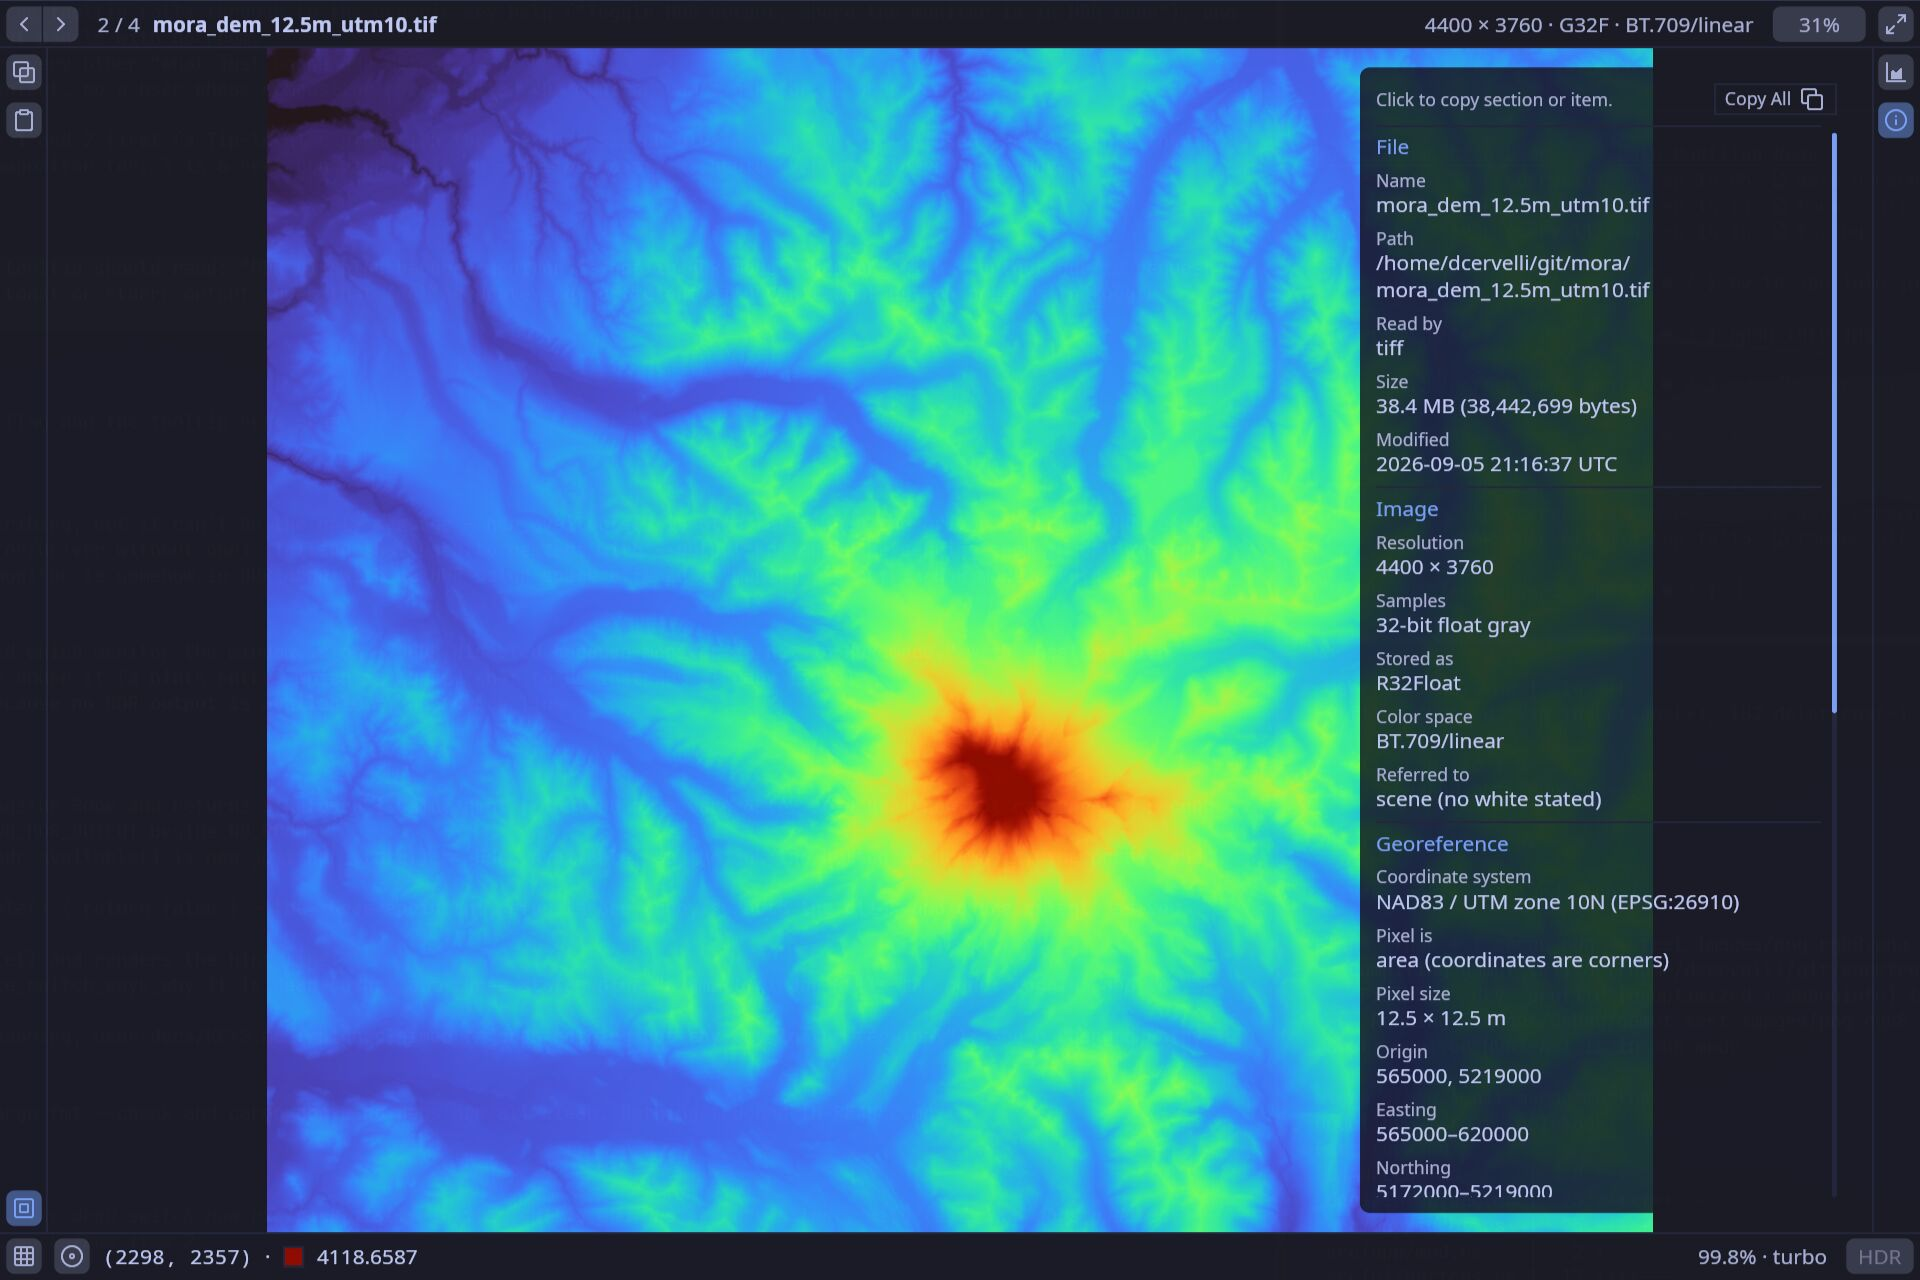
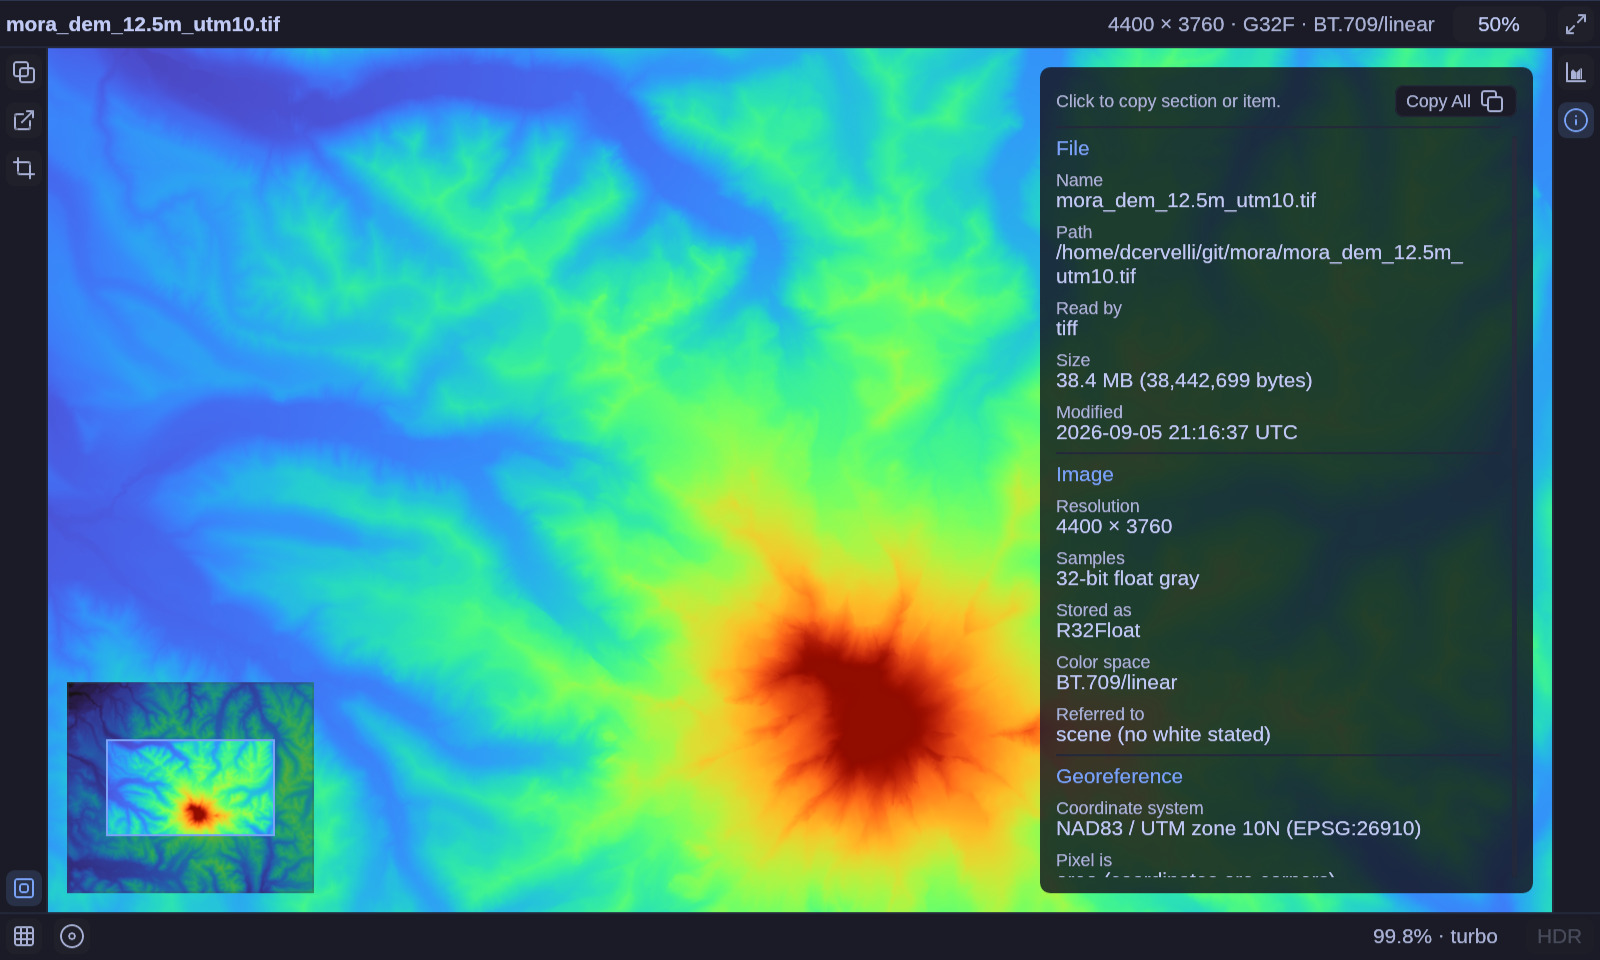
Info screenshot script.

diff --git a/bin/screenshots/device.py b/bin/screenshots/device.py
@@ -1,5 +1,5 @@
 #!/usr/bin/env python3
-"""A mouse that is not there: wheel notches and drags through /dev/uinput.
+"""A mouse and a keyboard that are not there, through /dev/uinput.
 
 wtype has keys but no pointer, and Hyprland can warp the pointer but not press
 its buttons or turn its wheel, so what the wheel and a drag do — zooming about
@@ -9,9 +9,16 @@ sends the events, and takes it away again. Nothing but the standard library:
 the ioctls and the event record are spelled out here from linux/uinput.h and
 linux/input.h.
 
-    mouse.py wheel N          N notches: positive is away from the hand, which zooms in
-    mouse.py drag DX DY       the left button held while the pointer moves DX, DY
-    mouse.py click            the left button pressed and released
+It has keys as well, for the bindings wtype cannot reach. wtype types a
+keysym under a keymap of its own, at whatever keycode it chose for it, and
+a binding on a key's position — Shift+2 for 50%, matched by the key being
+the second digit and not by what it says — never sees the key it wants.
+A key from here is the real keycode, read under the real keymap.
+
+    device.py wheel N          N notches: positive is away from the hand, which zooms in
+    device.py drag DX DY       the left button held while the pointer moves DX, DY
+    device.py click            the left button pressed and released
+    device.py key CHORD        a key by its position, with modifiers: 2, shift+2, ctrl+shift+c
 
 /dev/uinput has to be writable by the user; Omarchy grants that through an
 ACL, and `getfacl /dev/uinput` says whether it has.
@@ -28,6 +35,21 @@ EV_SYN, EV_KEY, EV_REL = 0x00, 0x01, 0x02
 SYN_REPORT = 0
 REL_X, REL_Y, REL_WHEEL, REL_WHEEL_HI_RES = 0x00, 0x01, 0x08, 0x0B
 BTN_LEFT = 0x110
+
+# The keys a chord can name, by their evdev codes.
+KEYS = {
+    "esc": 1, "1": 2, "2": 3, "3": 4, "4": 5, "5": 6, "6": 7, "7": 8, "8": 9,
+    "9": 10, "0": 11, "minus": 12, "equal": 13, "backspace": 14, "tab": 15,
+    "q": 16, "w": 17, "e": 18, "r": 19, "t": 20, "y": 21, "u": 22, "i": 23,
+    "o": 24, "p": 25, "leftbrace": 26, "rightbrace": 27, "enter": 28,
+    "leftctrl": 29, "a": 30, "s": 31, "d": 32, "f": 33, "g": 34, "h": 35,
+    "j": 36, "k": 37, "l": 38, "semicolon": 39, "apostrophe": 40, "grave": 41,
+    "leftshift": 42, "backslash": 43, "z": 44, "x": 45, "c": 46, "v": 47,
+    "b": 48, "n": 49, "m": 50, "comma": 51, "dot": 52, "slash": 53,
+    "rightshift": 54, "leftalt": 56, "space": 57, "up": 103, "pageup": 104,
+    "left": 105, "right": 106, "end": 107, "down": 108, "pagedown": 109,
+}
+MODIFIERS = {"shift": "leftshift", "ctrl": "leftctrl", "alt": "leftalt"}
 
 # linux/uinput.h, with the _IO macros already applied: 'U' is 0x55, and
 # uinput_setup is an input_id (four u16), an 80-byte name and a u32.
@@ -46,11 +68,13 @@ NOTCH = 120
 SETTLE = 0.4
 
 
-class Mouse:
+class Device:
     def __init__(self):
         self.fd = os.open("/dev/uinput", os.O_WRONLY | os.O_NONBLOCK)
         fcntl.ioctl(self.fd, UI_SET_EVBIT, EV_KEY)
         fcntl.ioctl(self.fd, UI_SET_KEYBIT, BTN_LEFT)
+        for code in KEYS.values():
+            fcntl.ioctl(self.fd, UI_SET_KEYBIT, code)
         fcntl.ioctl(self.fd, UI_SET_EVBIT, EV_REL)
         for code in (REL_X, REL_Y, REL_WHEEL, REL_WHEEL_HI_RES):
             fcntl.ioctl(self.fd, UI_SET_RELBIT, code)
@@ -109,23 +133,37 @@ class Mouse:
         time.sleep(0.05)
         self.button(False)
 
+    def key(self, chord):
+        *modifiers, key = chord.lower().split("+")
+        codes = [KEYS[MODIFIERS[m]] for m in modifiers] + [KEYS[key]]
+        for code in codes:
+            self.emit(EV_KEY, code, 1)
+            self.sync()
+            time.sleep(0.02)
+        for code in reversed(codes):
+            self.emit(EV_KEY, code, 0)
+            self.sync()
+            time.sleep(0.02)
+
 
 def main(argv):
     if len(argv) < 2:
         sys.exit(__doc__)
-    mouse = Mouse()
+    device = Device()
     try:
         match argv[1:]:
             case ["wheel", notches]:
-                mouse.wheel(int(notches))
+                device.wheel(int(notches))
             case ["drag", dx, dy]:
-                mouse.drag(int(dx), int(dy))
+                device.drag(int(dx), int(dy))
             case ["click"]:
-                mouse.click()
+                device.click()
+            case ["key", chord]:
+                device.key(chord)
             case _:
                 sys.exit(__doc__)
     finally:
-        mouse.close()
+        device.close()
 
 
 if __name__ == "__main__":

diff --git a/AGENTS.md b/AGENTS.md
@@ -142,7 +142,8 @@ packaging/     what an Arch package is built from: PKGBUILD, the .desktop entry,
 bin/           release, and pkgbuild-sha which points the PKGBUILD at a published tag;
                screenshots/ holds one script per picture in user-docs/screenshots/,
                over lib.sh, which opens, drives and captures a window on Hyprland,
-               and mouse.py, a uinput mouse for the wheel and drags
+               and device.py, a uinput mouse and keyboard for the wheel, drags,
+               and the keys that are bound by position
 REUSE.toml     which file in the tree is under what license; LICENSES/ holds the
                texts it names, and `reuse lint` checks the two agree
 about.toml     which licenses a dependency may arrive under; packaging/about.hbs
@@ -178,7 +179,7 @@ still agrees with both, so renaming either is editing the constant —
 | A popup menu | a function in `ui/menu.rs` that lays its cells out, each pushing `Command::Press` of a typed `Control` — `ZoomTo`, `Format`, `Copies`, or `OpenIn`, which is a place in a list the application built rather than a choice named in the source — and an `egui::Popup` hung off its button in `ui/chrome.rs`, aligned below, above or beside it with `RectAlign`. The popup opens, closes and takes the pointer by itself; `App::close_menus` is how a key closes one. An item that does something rather than setting something is performed in `App::press`, as the menu of copies is, and prints its key beside it from `Naming::shortcut` |
 | What else can open the file on screen, or what happens when one is chosen | `openers.rs`: `MIME_TYPES` says what the desktop calls a file this program reads, `read_entry` which entries are offered and which are left out, and `open` how one is started. The list is read once per file in `App::apply`; the button is `Pass::open_button`, the menu `ui/menu.rs::open_items`, and the press `App::open_in` |
 | A CLI flag | `cli.rs`, and the `Options` / `Startup` / `Overrides` field it sets |
-| A picture in the README or `user-docs/` | a script in `bin/screenshots/` over `lib.sh`: `open` the window, `keys` to drive it, `settle`, `shoot`, `close`; a recording is `record` and `cut` around the keys, then `gif`; the wheel and a drag are `wheel` and `drag`, after `cursor` has placed the pointer, at a point `fitted` works out from image coordinates. Run it again after the interface changes rather than retouching the picture |
+| A picture in the README or `user-docs/` | a script in `bin/screenshots/` over `lib.sh`: `open` the window, `keys` to drive it, `settle`, `shoot`, `close`; a recording is `record` and `cut` around the keys, then `gif`; the wheel and a drag are `wheel` and `drag`, after `cursor` has placed the pointer, at a point `fitted` works out from image coordinates; a key bound by position (`Shift+2`) is `press shift+2`. Run it again after the interface changes rather than retouching the picture |
 | What a path on the command line stands for | `listing.rs`; `App::poll_directories` notices a named directory changing and `app/files.rs::relist` takes the new list in |
 | Anything a user installs — the desktop entry, the icon, a completion, the man page | `packaging/`; the man page is generated by `cli.rs::man()` from the same `OPTIONS` and `KEYS` as `--help`, so it is never edited directly |
 | An image format | `image/decode/<fmt>.rs` implementing `Decoder`, one line in `DECODERS`, a fixture in `test_images/` (see its README and `generate.sh`); a camera format is LibRaw's to read and `decode/raw.rs`'s to recognize, checked against a real file by `test_images/raw-samples/fetch.sh` |

diff --git a/docs/screenshots.md b/docs/screenshots.md
@@ -9,7 +9,8 @@ each one shows is the script: `main_screenshot` opens `~/git/mora` in a
 `animated` opens a GIF paused in a 1000×600 window, records it playing
 through once, and turns the film into the README's `animated.gif`;
 `pixel_grid` turns the grid on, rolls the wheel over the stag until the
-grid is at single pixels, and presses Space.
+grid is at single pixels, and presses Space; `info` opens an elevation
+model in turbo with the panel up, at 50%.
 
 ## How a script takes a picture
 
@@ -55,21 +56,31 @@ next window can be given the same address, and `open` tells the new window
 from the ones already open by address, so a script that opens twice in a row
 would otherwise take the second window for the first.
 
-## A mouse
+## A device of our own
 
 `wtype` has keys and no pointer, and Hyprland can warp the pointer but not
 press its buttons or turn its wheel. What the wheel does — zoom about the
 pointer — and what a drag does are half the program, and a recording that
 never showed them would be a poor one, so
-[`bin/screenshots/mouse.py`](../bin/screenshots/mouse.py) is a mouse of its
-own: a device registered through `/dev/uinput` for as long as one command
-runs, sending wheel notches or a held button and motion, then taken away
-again. It uses nothing outside Python's standard library; the ioctl numbers
-and the event record are written out from the kernel's own headers. Omarchy
-gives the user write access to `/dev/uinput` through an ACL, which is what
-makes this possible without root. `wheel` and `drag` in `lib.sh` call it,
-and `record FILE cursor` keeps the pointer in the film for a recording where
-the pointer is the point.
+[`bin/screenshots/device.py`](../bin/screenshots/device.py) is a mouse of
+its own: a device registered through `/dev/uinput` for as long as one
+command runs, sending wheel notches or a held button and motion, then taken
+away again. It uses nothing outside Python's standard library; the ioctl
+numbers and the event record are written out from the kernel's own headers.
+Omarchy gives the user write access to `/dev/uinput` through an ACL, which
+is what makes this possible without root. `wheel` and `drag` in `lib.sh`
+call it, and `record FILE cursor` keeps the pointer in the film for a
+recording where the pointer is the point.
+
+It is a keyboard too, for the bindings `wtype` cannot reach. A binding in
+`app/input.rs` is matched either by what the key says (`Char("+")`) or by
+where it is (`Position(KeyCode::Digit2)`, which is how `Shift+2` is 50%
+on any layout). `wtype` types a keysym under a keymap of its own, at a
+keycode it chose, so the window sees the right character at the wrong
+position; a key from the device is the real keycode read under the real
+keymap, and matches either way. `press shift+2` in `lib.sh` is that. `keys`
+stays on `wtype` for everything else, because a keysym is what a binding
+by character wants and does not depend on the desk's layout.
 
 The pointer is placed first with `cursor`, and `fitted W H X Y` says where
 image pixel X, Y of a W×H image is in the layout while the image is fitted
